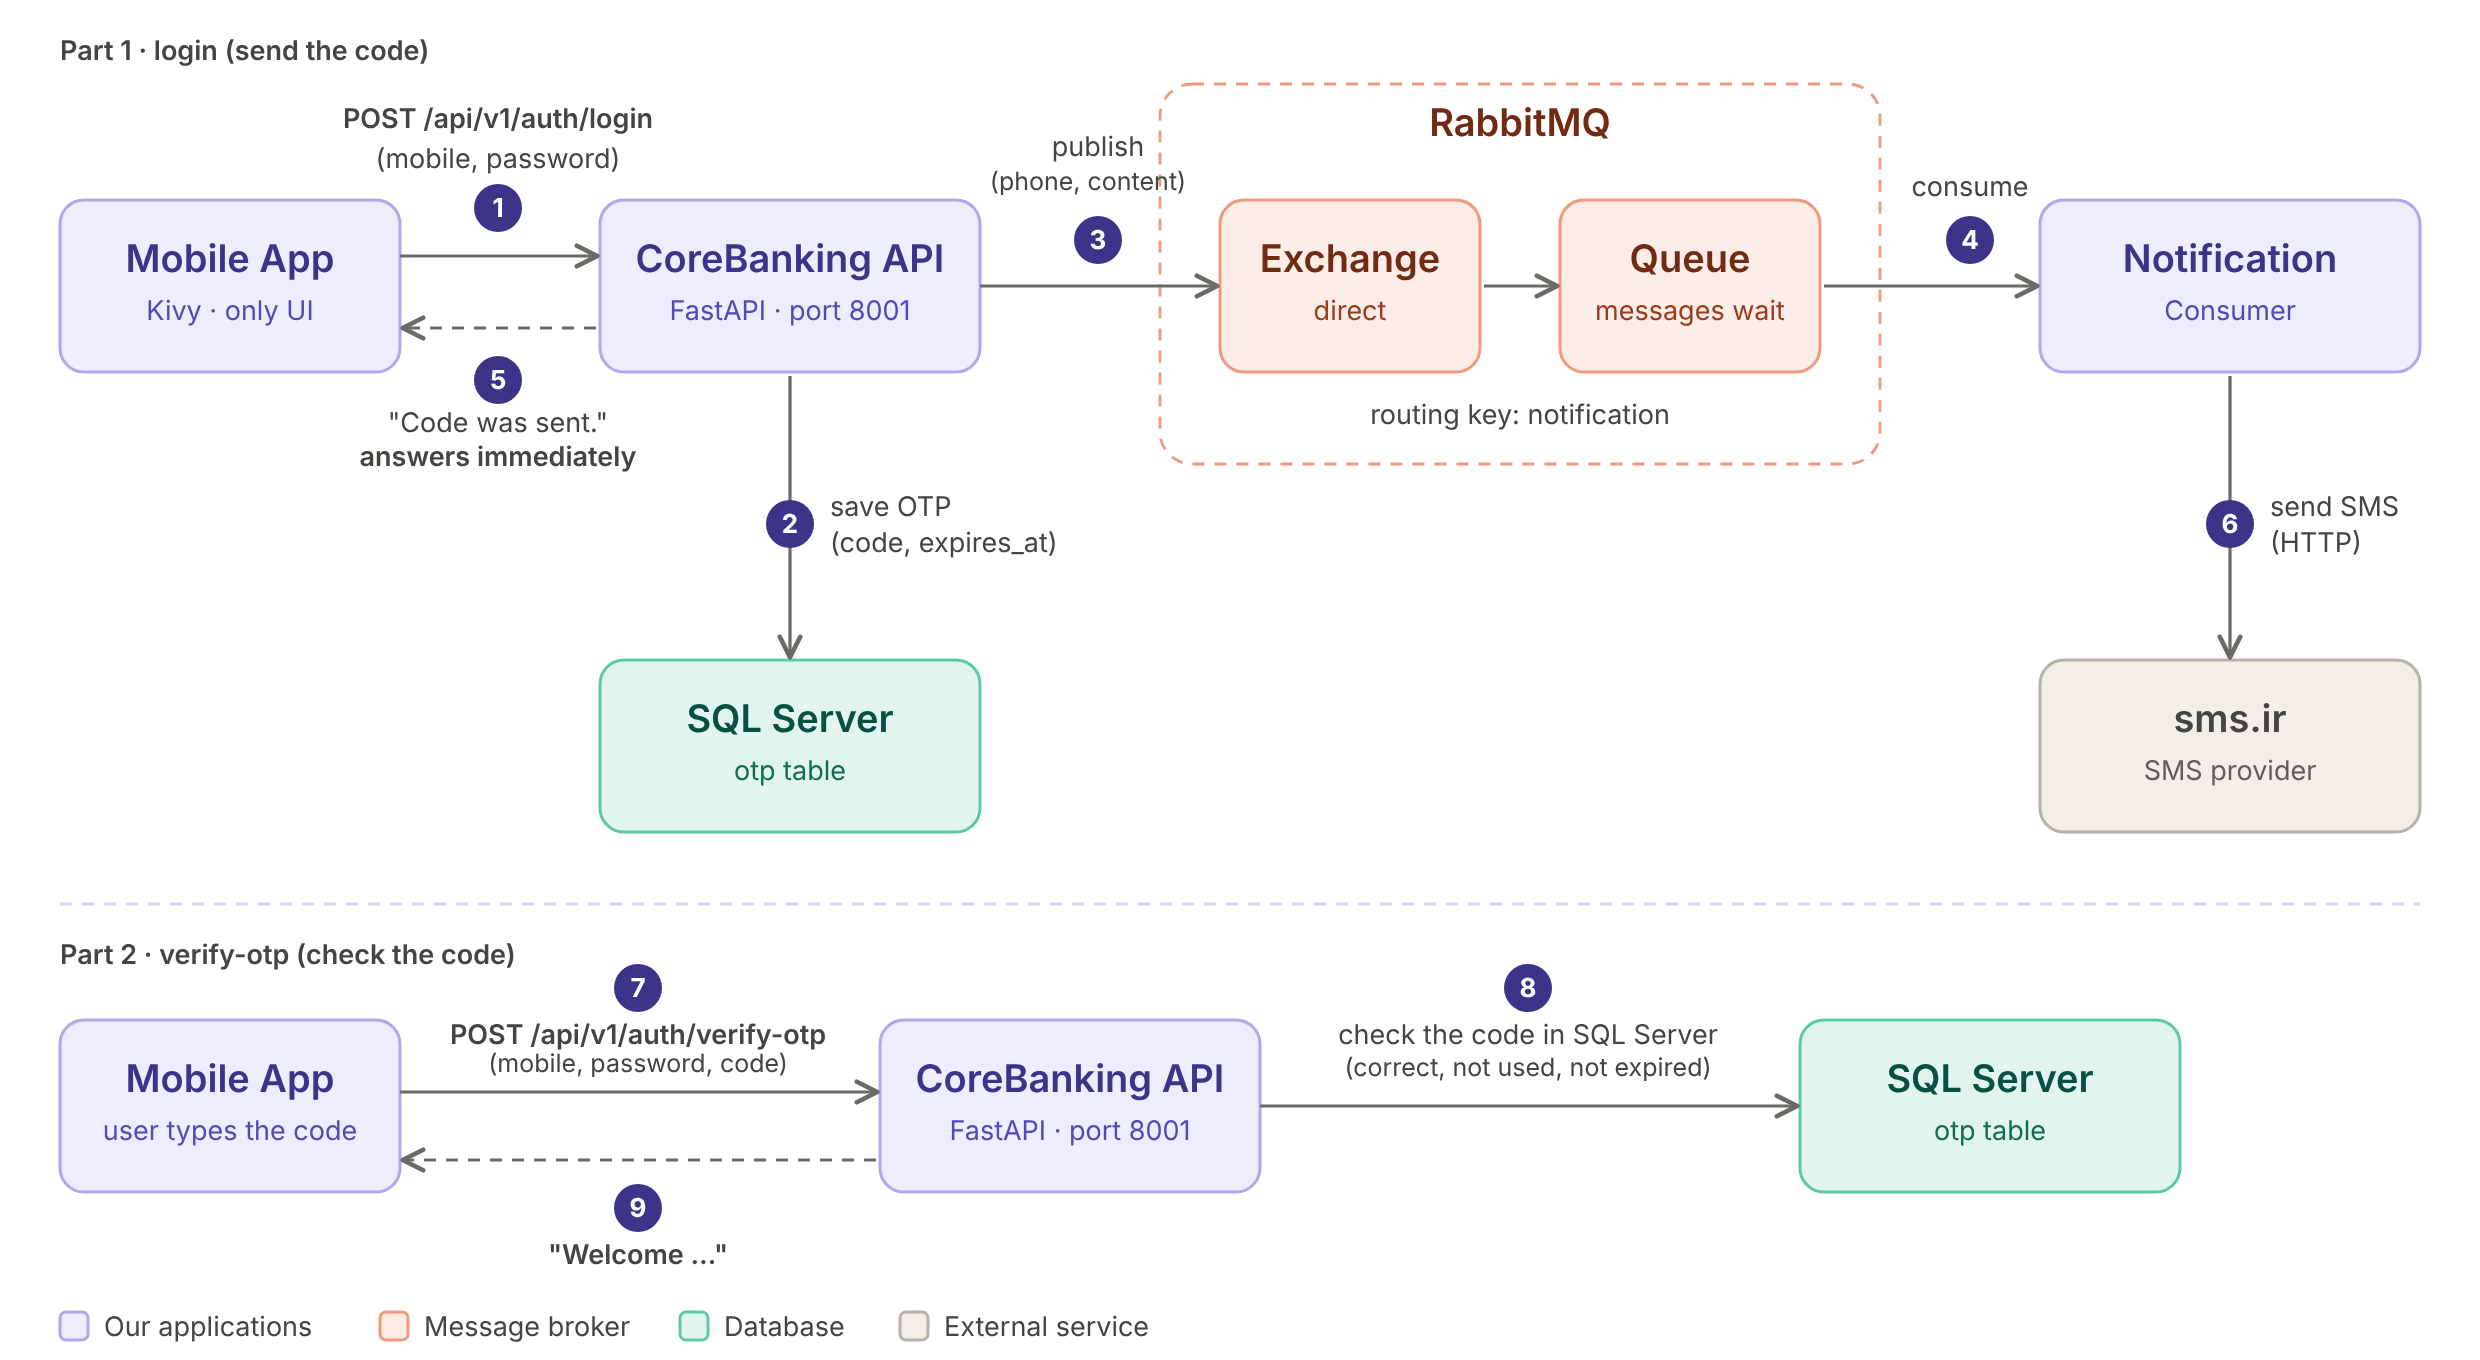
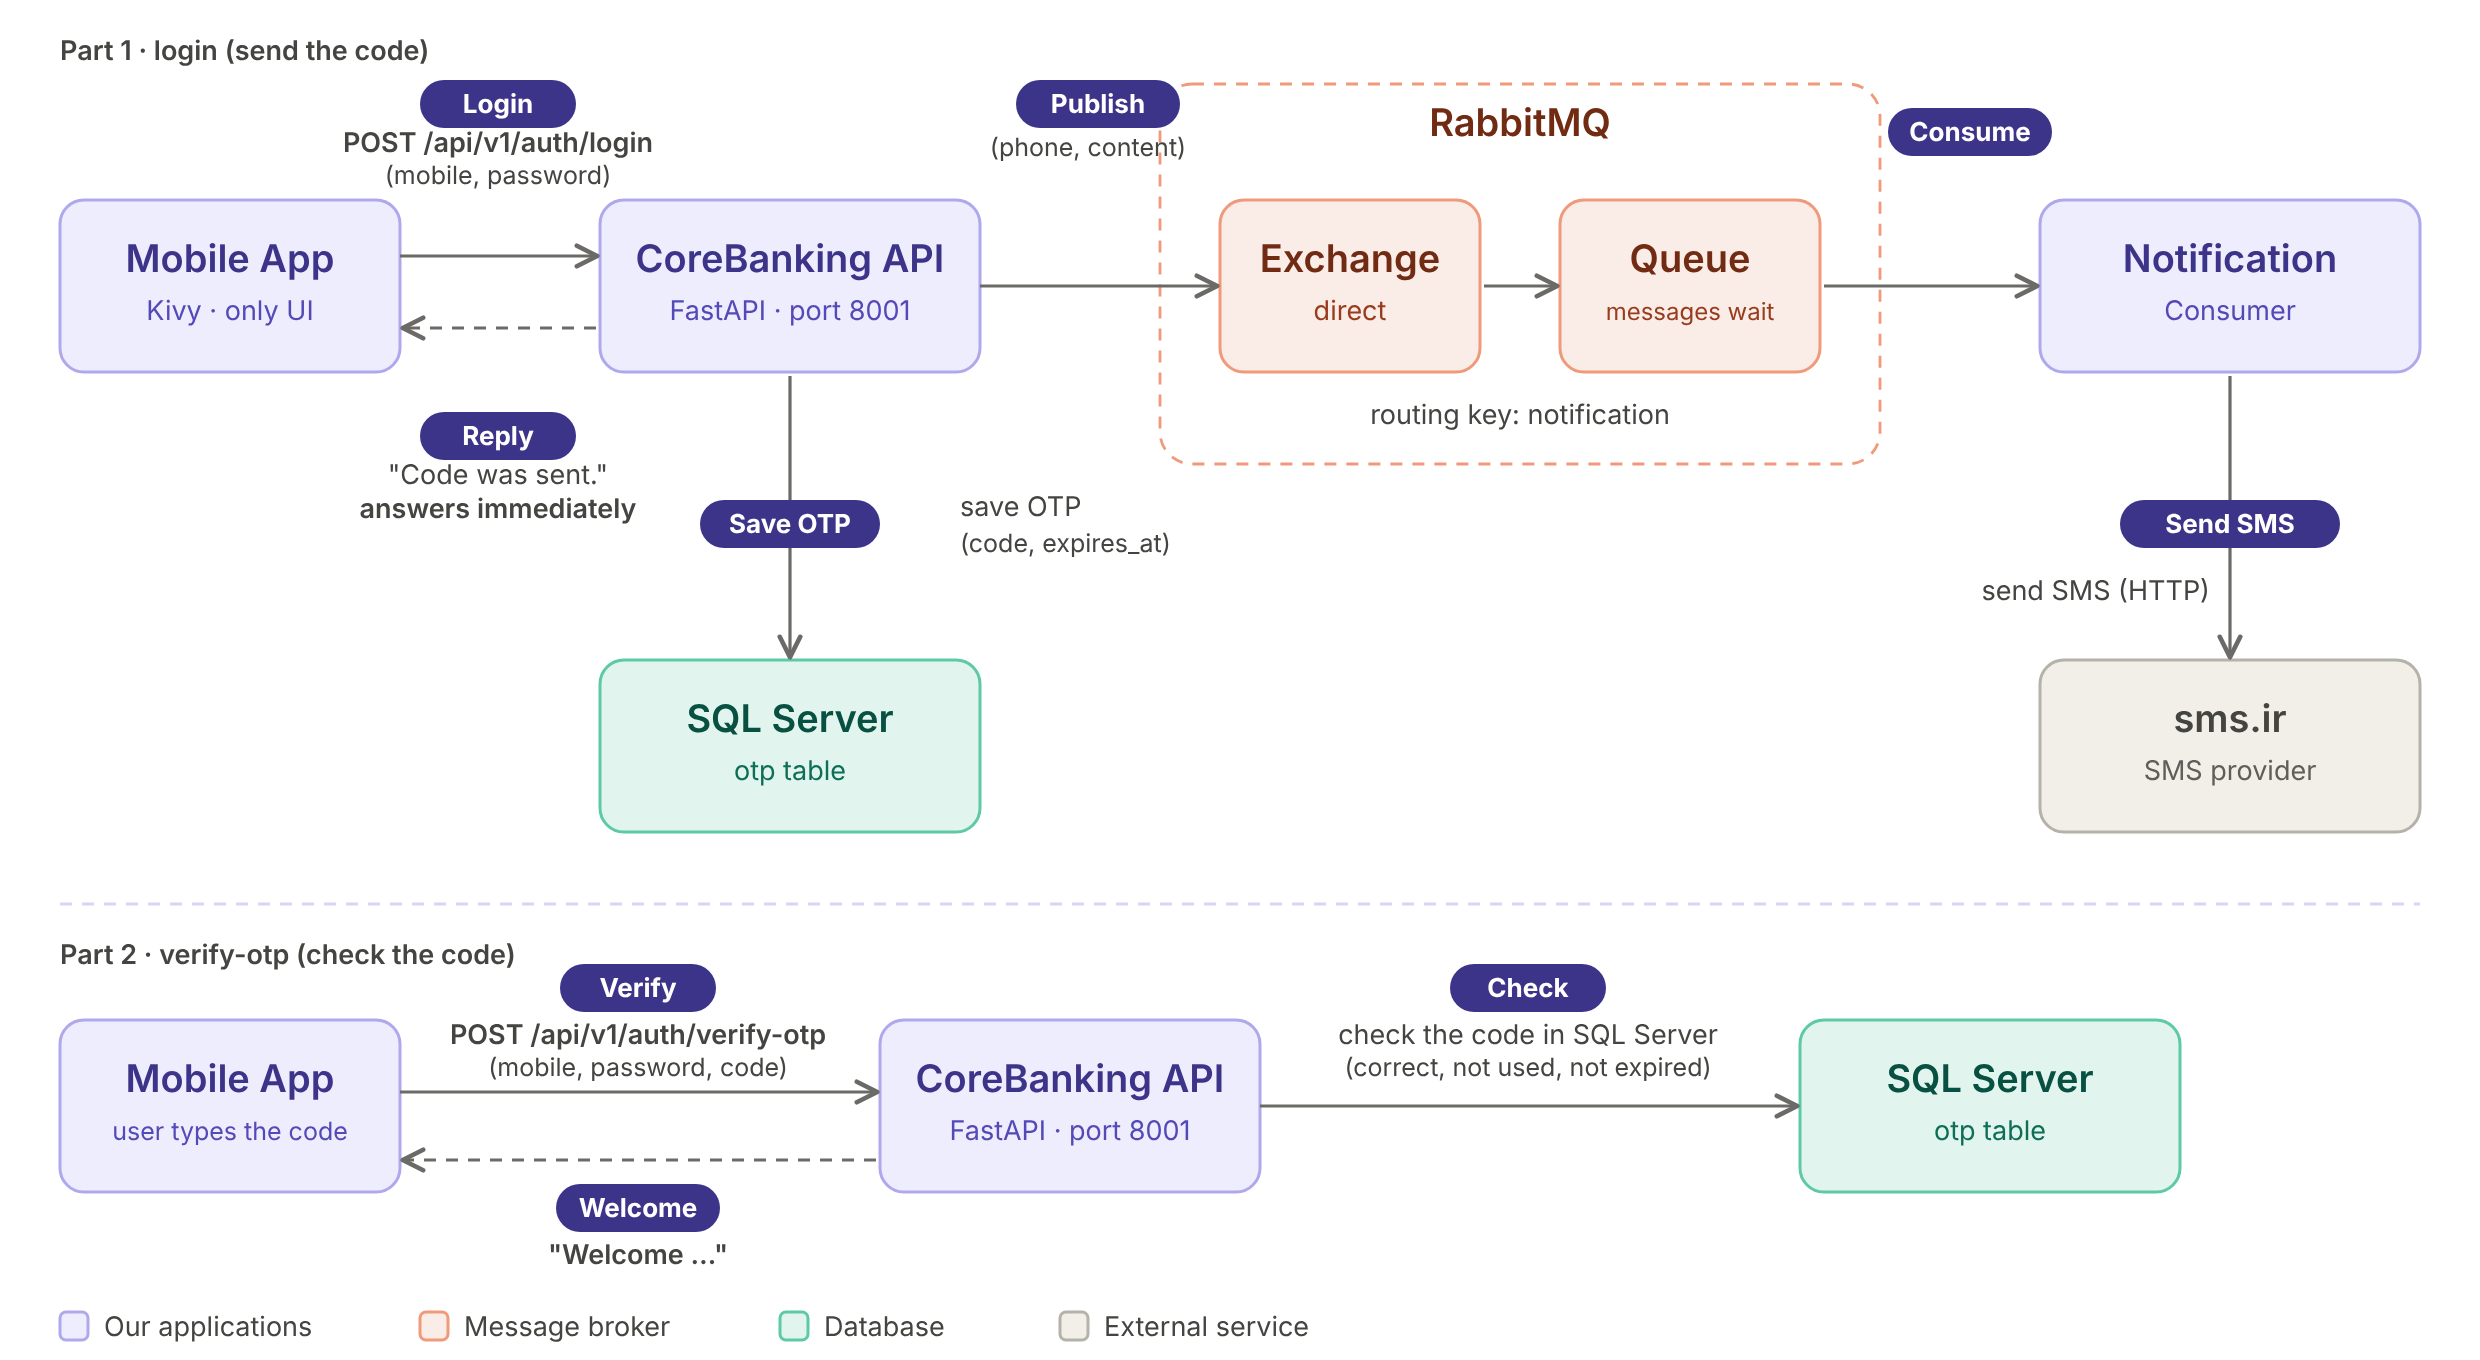
Add files via upload
Update README and flow diagram

diff --git a/README.md b/README.md
@@ -449,6 +449,7 @@ The finished dashboard:
 
 - Python
 - FastAPI, Uvicorn and Pydantic
+- Swagger UI (OpenAPI)
 - Tkinter and ttkbootstrap
 - SQLAlchemy
 - SQL Server (pyodbc, pymssql)
@@ -503,6 +504,9 @@ CoreBanking/
 ├── docs/
 │   └── images/
 ├── tests/
+│   ├── test_otp_business_logic.py
+│   ├── test_auth_business_logic.py
+│   └── test_account_business_logic.py
 │
 ├── .env.example
 ├── .gitignore
@@ -527,6 +531,7 @@ CoreBanking/
 |---------------|-----------------------------------------|-----------------------------------|
 | Administrator | Employee Management, My Profile, Logout | مدیریت کارمندان، پروفایل من، خروج |
 | Banker        | Account Management, My Profile, Logout  | مدیریت حسابها، پروفایل من، خروج  |
+| Customer      | Mobile app: login with OTP, accounts, balance, transactions (through the API) | اپلیکیشن موبایل: ورود با OTP، حسابها، موجودی، تراکنشها (از طریق API) |
 
 ---
 
@@ -610,6 +615,27 @@ Start the [NotificationMicroservice](https://github.com/zahrasalimzadeh/Notifica
 | Desktop application / دسکتاپ | `python main.py`                                |
 | REST API / ایپیآی          | `uvicorn main_api:app --port 8001 --reload`     |
 | Unit tests / تستها          | `python -m unittest discover -s tests -t . -v`  |
+
+Sample logins from `CreateDatabase.sql` (the password of all of them is `123456`):
+
+<div dir="rtl">
+
+ورودهای نمونه از فایل `CreateDatabase.sql` (رمز همهی آنها `123456` است):
+
+</div>
+
+| App / برنامه                  | Username or mobile / نام کاربری یا موبایل |
+|-------------------------------|-------------------------------------------|
+| Desktop (Banker) / دسکتاپ     | `z.salimzadeh`                            |
+| Mobile app and API / موبایل و API | `09120000002`                         |
+
+The sample mobile numbers are fake. To receive the real SMS, change the mobile number in the database to your own number.
+
+<div dir="rtl">
+
+شمارههای موبایل نمونه ساختگی هستند. برای دریافت پیامک واقعی، شمارهی موبایل را در پایگاه داده با شمارهی خودتان عوض کنید.
+
+</div>
 
 To see the monitoring part, also start Prometheus (`prometheus.exe`) and Grafana, as described in the [Monitoring](#-monitoring--پایش-عملکرد) section.
 
